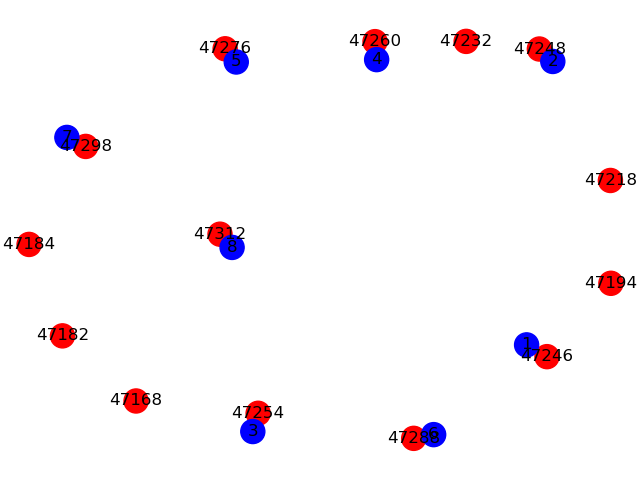
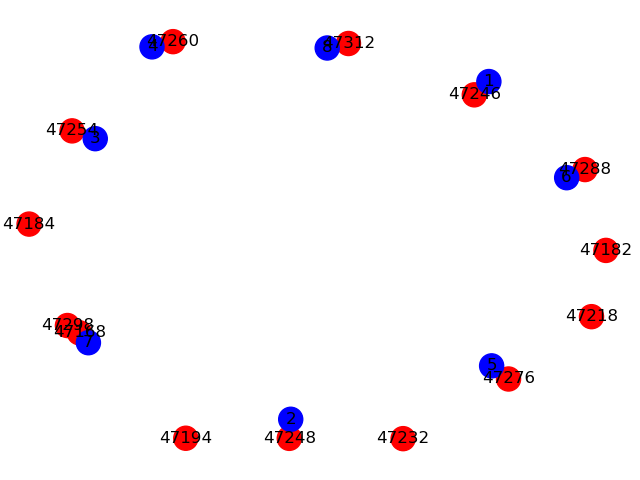
fix bug in find partial topo. packets_cap can save packet_in and packet_flow_mod correctly. (SORTED)

diff --git a/FPSDN/FPSDN.py b/FPSDN/FPSDN.py
@@ -15,27 +15,34 @@ def find_partial_topology(log_file_path):
         with pyshark.FileCapture(log_file_path, display_filter='openflow_v1') as cap:
             packets_cap = []
             ipsrc_ipdst_sw_type_packet_checker = []
-            
-            # for packet in cap:
-            #     if int(packet.openflow_v1.openflow_1_0_type) == 14:
-            #         print(packet)
-                    
-            #         print(str(packet.openflow_v1.openflow_1_0_type))
-            #         print(packet.openflow_v1.get_field_value("openflow.ofp_match.source_addr"))
-            #         break
+        
+            numberofins = 0
+            numberofflowmods = 0
 
             for packet in cap:
                 if int(packet.openflow_v1.openflow_1_0_type) == 10 and packet.openflow_v1.get_field_value("ip.src") != None:
                     src_dst_sw_type = packet.openflow_v1.get_field_value("ip.src") + "_" + packet.openflow_v1.get_field_value("ip.dst") + "_" + packet.tcp.get_field_value("tcp.srcport") + "_" + str(packet.openflow_v1.openflow_1_0_type)
+                    print(src_dst_sw_type)
                     if src_dst_sw_type not in ipsrc_ipdst_sw_type_packet_checker:
                         ipsrc_ipdst_sw_type_packet_checker.append(src_dst_sw_type)
                         packets_cap.append(packet)
+                        numberofins += 1
+                elif int(packet.openflow_v1.openflow_1_0_type) == 14 and packet.openflow_v1.get_field_value("openflow.ofp_match.source_addr").split(".")[0] == "10" and int(packet.openflow_v1.get_field_value("openflow.ofp_match.dl_type")) != 2054:
+                    src_dst_sw_type = packet.openflow_v1.get_field_value("openflow.ofp_match.source_addr") + "_" + packet.openflow_v1.get_field_value("openflow.ofp_match.dest_addr") + "_" + packet.tcp.get_field_value("tcp.dstport") + "_" + str(packet.openflow_v1.openflow_1_0_type)
+                    print(src_dst_sw_type)
+                    if src_dst_sw_type not in ipsrc_ipdst_sw_type_packet_checker:
+                        ipsrc_ipdst_sw_type_packet_checker.append(src_dst_sw_type)
+                        packets_cap.append(packet)
+                        numberofflowmods += 1
             print(len(packets_cap))
+            print("ins: ", numberofins)
+            print("flow mods: ", numberofflowmods)
             G = nx.DiGraph()
 
             number_devices = 0
 
             for packet in packets_cap:
+                if int(packet.openflow_v1.openflow_1_0_type) == 10:
                     flag_add_edge = False
         
                     host_ip = packet.openflow_v1.get_field_value("ip.src")
@@ -55,13 +62,15 @@ def find_partial_topology(log_file_path):
                         G.add_edge(switch, host_ip)
                         G.add_edge(host_ip,switch)
             print(number_devices)
+            print(packets_cap[-2])
+            print("...............................................")
+            print(packets_cap[-1])
     except FileNotFoundError:
         print(f"Couldn't find the file: {log_file_path}")
         return None
     except Exception as e:
         print(f"An unexpected error occurred: {e}")
         return None
-    
     
     return packets_cap, G
 
